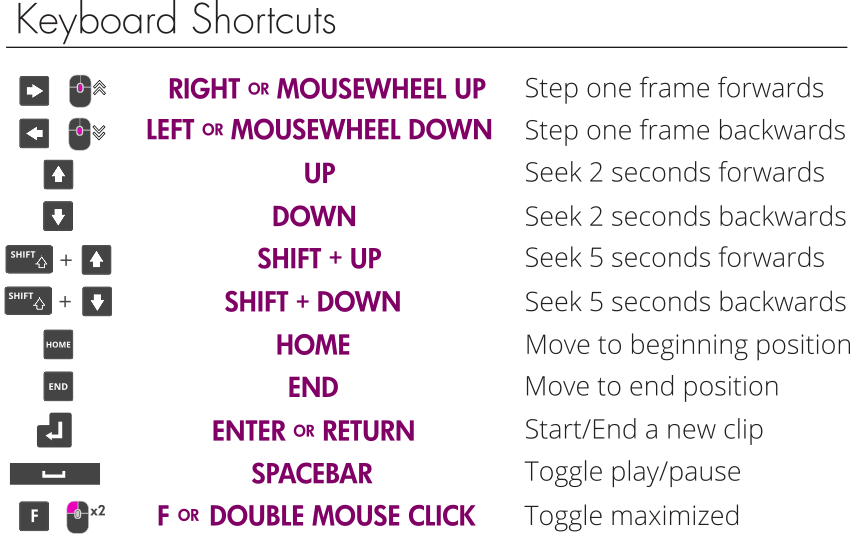
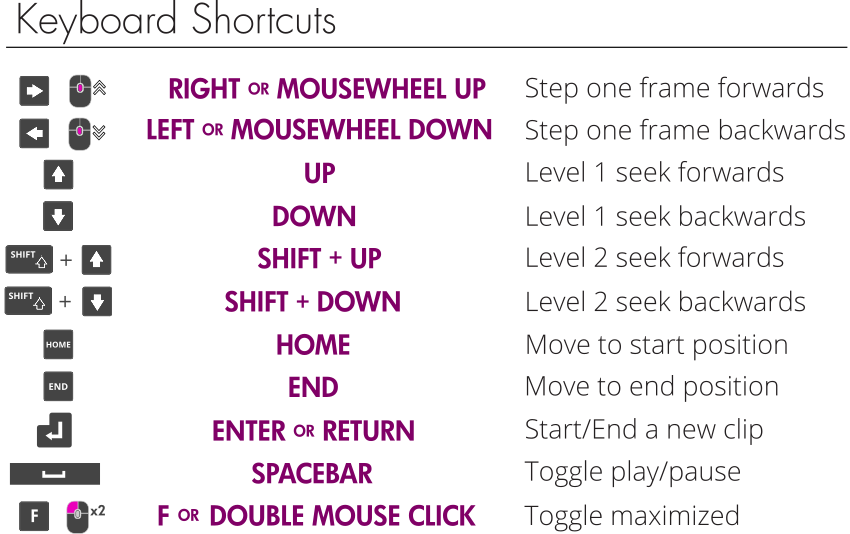
keyboard shortcuts updated re Level 1 + 2 settings

diff --git a/vidcutter/videocutter.py b/vidcutter/videocutter.py
@@ -475,8 +475,10 @@ class VideoCutter(QWidget):
         self.level1_spinner.setSuffix(' secs')
         self.level1_spinner.setValue(self.settings.value('level1Seek', 2, float))
         level1_layout = QHBoxLayout()
-        level1_layout.addWidget(self.level1_spinner)
+        level1_layout.addStretch(1)
         level1_layout.addWidget(QLabel('Level 1'))
+        level1_layout.addWidget(self.level1_spinner)
+        level1_layout.addStretch(1)
         level1Seek = QWidget(self)
         level1Seek.setLayout(level1_layout)
         level1seekAction = QWidgetAction(self)
@@ -489,8 +491,10 @@ class VideoCutter(QWidget):
         self.level2_spinner.setSuffix(' secs')
         self.level2_spinner.setValue(self.settings.value('level2Seek', 5, float))
         level2_layout = QHBoxLayout()
-        level2_layout.addWidget(self.level2_spinner)
+        level2_layout.addStretch(1)
         level2_layout.addWidget(QLabel('Level 2'))
+        level2_layout.addWidget(self.level2_spinner)
+        level2_layout.addStretch(1)
         level2Seek = QWidget(self)
         level2Seek.setLayout(level2_layout)
         level2seekAction = QWidgetAction(self)
@@ -500,7 +504,7 @@ class VideoCutter(QWidget):
         optionsMenu.addSection('Theme')
         optionsMenu.addAction(self.lightThemeAction)
         optionsMenu.addAction(self.darkThemeAction)
-        optionsMenu.addSection('Seeking Levels')
+        optionsMenu.addSection('Seek Times')
         optionsMenu.addAction(level1seekAction)
         optionsMenu.addAction(level2seekAction)
         optionsMenu.addSeparator()
@@ -513,6 +517,7 @@ class VideoCutter(QWidget):
         optionsMenu.addAction(self.hardwareDecodingAction)
         optionsMenu.addAction(self.keepRatioAction)
         optionsMenu.addMenu(zoomMenu)
+        optionsMenu.aboutToShow.connect(self.clearSpinners)
 
         self.appMenu.setSeparatorsCollapsible(True)
         self.appMenu.addAction(self.openProjectAction)
@@ -541,6 +546,11 @@ class VideoCutter(QWidget):
             optionsMenu.setStyle(QStyleFactory.create('Fusion'))
             self.appMenu.setStyle(QStyleFactory.create('Fusion'))
             self.cliplistMenu.setStyle(QStyleFactory.create('Fusion'))
+
+    def clearSpinners(self) -> None:
+        for obj in (self.level1_spinner, self.level2_spinner):
+            obj.clearFocus()
+            obj.lineEdit().deselect()
 
     def setRunningTime(self, runtime: str) -> None:
         self.runtimeLabel.setText('<div align="right">%s</div>' % runtime)
